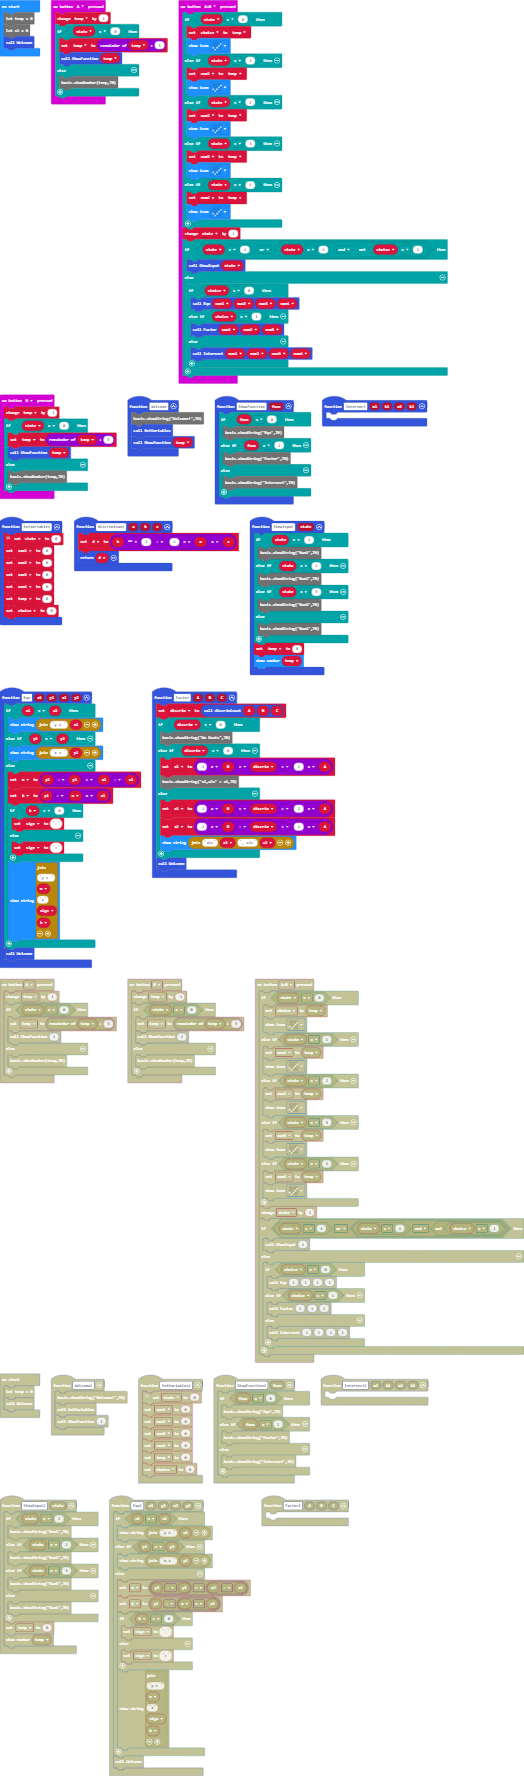
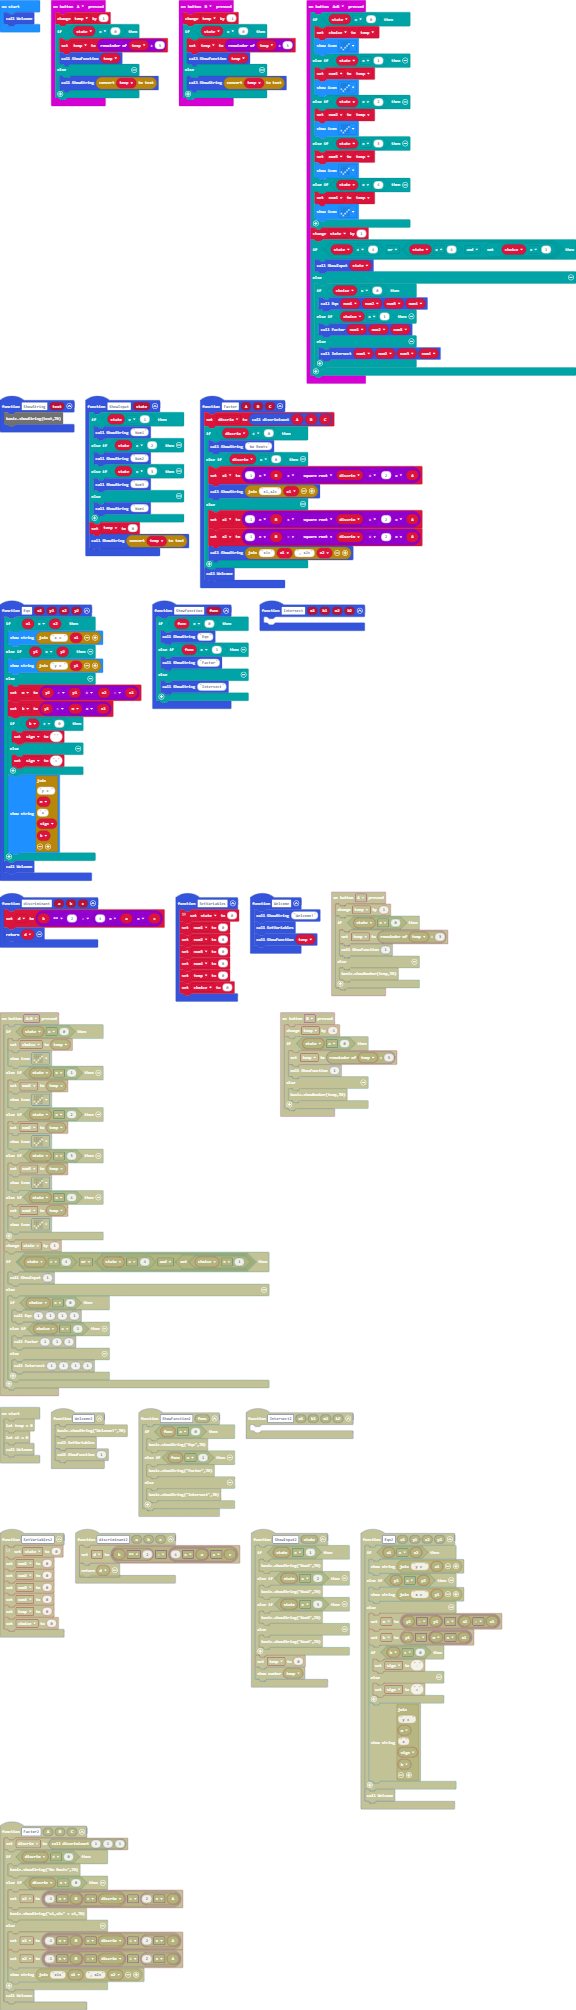
Added ShowString method, finished Factoring

diff --git a/main.ts b/main.ts
@@ -1,6 +1,9 @@
+function ShowString (text: string) {
+    basic.showString(text,70)
+}
 function Welcome () {
-    basic.showString("Welcome!",70)
-SetVariables()
+    ShowString("Welcome!")
+    SetVariables()
     ShowFunction(temp)
 }
 input.onButtonPressed(Button.A, function () {
@@ -9,46 +12,46 @@ input.onButtonPressed(Button.A, function () {
         temp = temp % 3
         ShowFunction(temp)
     } else {
-        basic.showNumber(temp,70)
+        ShowString(convertToText(temp))
     }
 })
 function ShowInput (state: number) {
     if (state == 1) {
-        basic.showString("Num1",70)
+        ShowString("Num1")
     } else if (state == 2) {
-        basic.showString("Num2",70)
+        ShowString("Num2")
     } else if (state == 3) {
-        basic.showString("Num3",70)
+        ShowString("Num3")
     } else {
-        basic.showString("Num4",70)
+        ShowString("Num4")
     }
     temp = 0
-    basic.showNumber(temp)
+    ShowString(convertToText(temp))
 }
 function Factor (A: number, B: number, C: number) {
     discrim = discriminant(A, B, C)
     if (discrim < 0) {
-        basic.showString("No Roots",70)
+        ShowString("No Roots")
     } else if (discrim == 0) {
-        x1 = (-1 * B + discrim) / (2 * A)
-        basic.showString("x1,x2=" + x1,70)
+        x1 = (-1 * B + Math.sqrt(discrim)) / (2 * A)
+        ShowString("x1,x2=" + x1)
     } else {
-        x1 = (-1 * B + discrim) / (2 * A)
-        x2 = (-1 * B - discrim) / (2 * A)
-        basic.showString("x1=" + x1 + ", x2=" + x2)
+        x1 = (-1 * B + Math.sqrt(discrim)) / (2 * A)
+        x2 = (-1 * B - Math.sqrt(discrim)) / (2 * A)
+        ShowString("x1=" + x1 + ", x2=" + x2)
     }
     Welcome()
 }
 function Eqn (x1: number, y1: number, x2: number, y2: number) {
     if (x1 == x2) {
-        basic.showString("y = " + x1)
+        basic.showString("x = " + x1)
     } else if (y1 == y2) {
-        basic.showString("x = " + y1)
+        basic.showString("y = " + y1)
     } else {
         m = (y2 - y1) / (x2 - x1)
         b = y1 - m * x1
         if (b < 0) {
-            sign = "-"
+            sign = ""
         } else {
             sign = "+"
         }
@@ -58,11 +61,11 @@ function Eqn (x1: number, y1: number, x2: number, y2: number) {
 }
 function ShowFunction (func: number) {
     if (func == 0) {
-        basic.showString("Eqn",70)
+        ShowString("Eqn")
     } else if (func == 1) {
-        basic.showString("Factor",70)
+        ShowString("Factor")
     } else {
-        basic.showString("Intersect",70)
+        ShowString("Intersect")
     }
 }
 input.onButtonPressed(Button.AB, function () {
@@ -105,7 +108,7 @@ input.onButtonPressed(Button.B, function () {
         temp = temp % 3
         ShowFunction(temp)
     } else {
-        basic.showNumber(temp,70)
+        ShowString(convertToText(temp))
     }
 })
 function Intersect (m1: number, b1: number, m2: number, b2: number) {
@@ -136,8 +139,8 @@ let sign = ""
 let b = 0
 let m = 0
 let x2 = 0
+let x1 = 0
 let discrim = 0
 let state = 0
 let temp = 0
-let x1 = 0
 Welcome()
